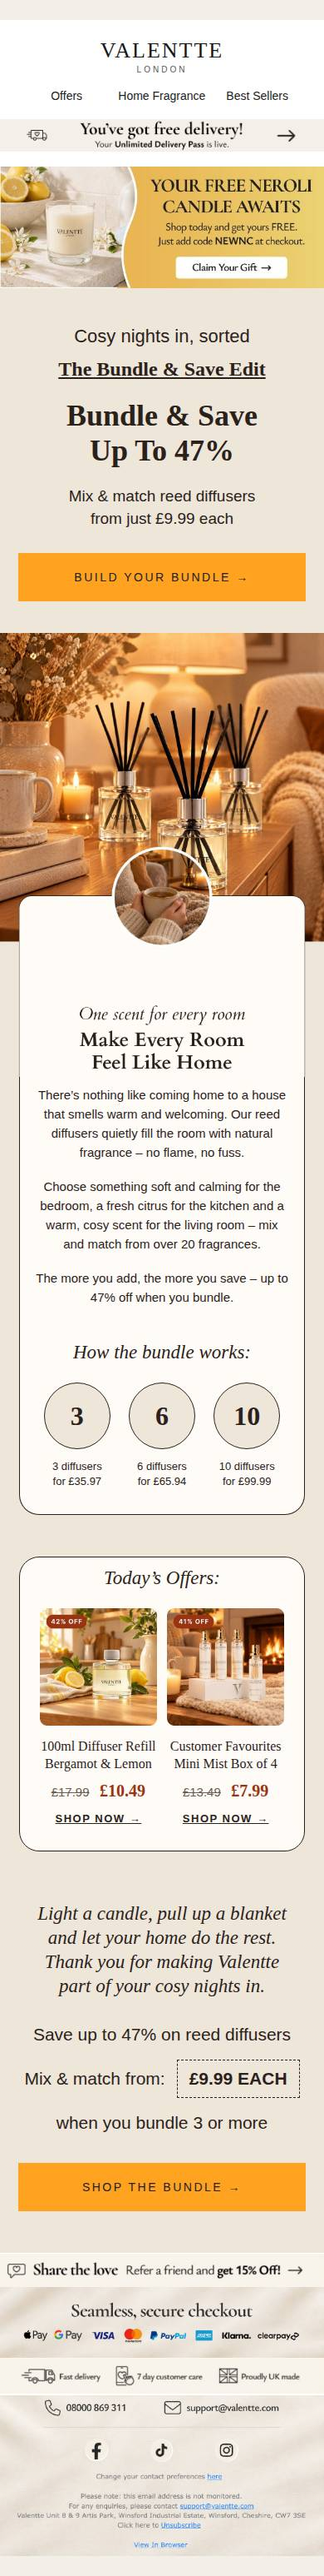
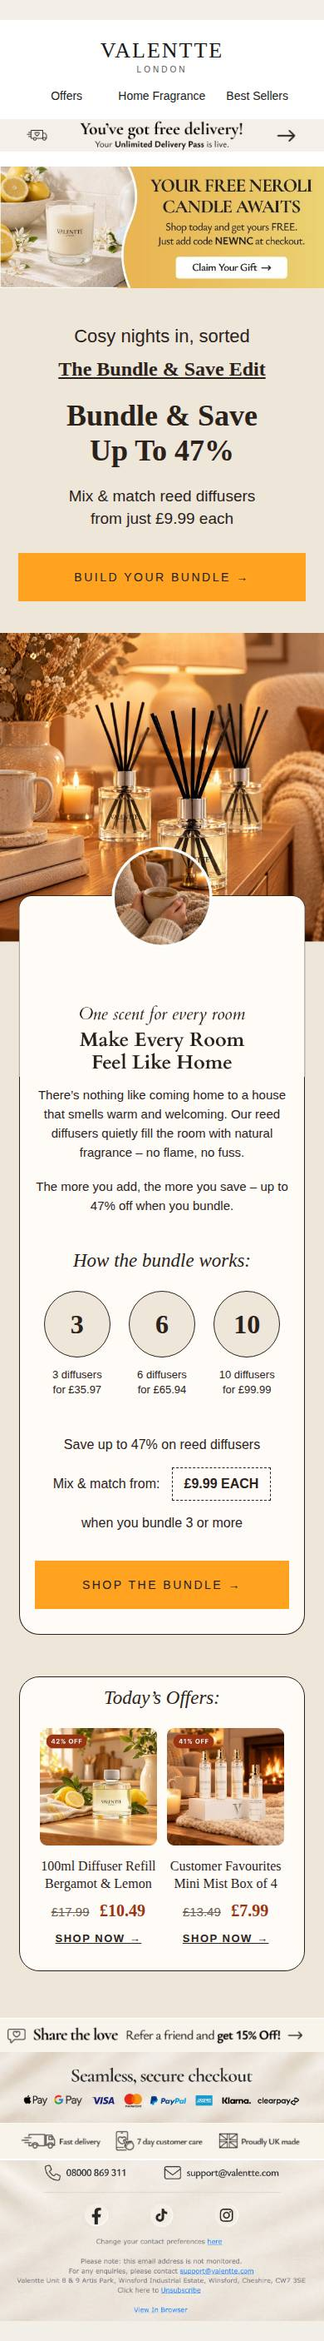
Thu 15/10 PM: bundle offer under 'How the bundle works', sync Ruby's Figma edits
Removed paragraph 2 and the sign-off (deleted in Figma); bundle offer + Shop the
bundle button now sit inside the story card above Today's Offers.

Claude-Session: https://claude.ai/code/session_01TpUJ2cy35Kours3zuWLZDp

diff --git a/emails/thu-15-10-pm/pm-15-10-new-customers.html b/emails/thu-15-10-pm/pm-15-10-new-customers.html
@@ -45,6 +45,7 @@
     .lb-pname { font-size:16px !important; line-height:21px !important; }
     .lb-now { font-size:20px !important; }
     .lb-it { font-size:23px !important; line-height:29px !important; }
+    .lb-off { font-size:16px !important; line-height:22px !important; }
     .lb-btn a { font-size:14px !important; padding:18px 10px !important; }
   }
 </style>
@@ -100,12 +101,18 @@
       <table role="presentation" width="100%" cellpadding="0" cellspacing="0" border="0" bgcolor="#fffcf8" style="background:#fffcf8;border-left:1px solid #2b211b;border-right:1px solid #2b211b;border-bottom:1px solid #2b211b;border-radius:0 0 24px 24px;"><tbody><tr>
         <td align="center" class="lb-card" style="padding:15px 38px 44px;">
           <div class="lb-p" style="font-family:Inter,Arial,Helvetica,sans-serif;font-size:17px;line-height:25px;color:#2b211b;padding:0 0 18px;">There’s nothing like coming home to a house that smells warm and welcoming. Our reed diffusers quietly fill the room with natural fragrance – no flame, no fuss.</div>
-          <div class="lb-p" style="font-family:Inter,Arial,Helvetica,sans-serif;font-size:17px;line-height:25px;color:#2b211b;padding:0 0 18px;">Choose something soft and calming for the bedroom, a fresh citrus for the kitchen and a warm, cosy scent for the living room – mix and match from over 20 fragrances.</div>
           <div class="lb-p" style="font-family:Inter,Arial,Helvetica,sans-serif;font-size:17px;line-height:25px;color:#2b211b;padding:0;">The more you add, the more you save – up to 47% off when you bundle.</div>
           <div class="lb-it" style="font-family:Cardo,Georgia,'Times New Roman',serif;font-style:italic;font-size:30px;line-height:36px;color:#2b211b;padding-top:40px;">How the bundle works:</div>
           <table role="presentation" width="100%" cellpadding="0" cellspacing="0" border="0" style="margin-top:22px;"><tbody><tr>
             <td width="33%" align="center" valign="top" style="width:33.333%;padding:0 4px;"><a href="https://valentte.com/reed-diffuser-bundle/?VNCFG=1" target="_blank" style="text-decoration:none;color:#2b211b;"><div class="lb-tier" style="width:110px;height:110px;line-height:110px;border:1px solid #2b211b;border-radius:55px;background:#efe6da;font-family:Cardo,Georgia,'Times New Roman',serif;font-weight:700;font-size:44px;color:#2b211b;text-align:center;margin:0 auto;">3</div><div class="lb-cap" style="font-family:Inter,Arial,Helvetica,sans-serif;font-size:16px;line-height:22px;color:#2b211b;padding-top:12px;">3 diffusers<br>for £35.97</div></a></td><td width="33%" align="center" valign="top" style="width:33.333%;padding:0 4px;"><a href="https://valentte.com/reed-diffuser-bundle/?VNCFG=1" target="_blank" style="text-decoration:none;color:#2b211b;"><div class="lb-tier" style="width:110px;height:110px;line-height:110px;border:1px solid #2b211b;border-radius:55px;background:#efe6da;font-family:Cardo,Georgia,'Times New Roman',serif;font-weight:700;font-size:44px;color:#2b211b;text-align:center;margin:0 auto;">6</div><div class="lb-cap" style="font-family:Inter,Arial,Helvetica,sans-serif;font-size:16px;line-height:22px;color:#2b211b;padding-top:12px;">6 diffusers<br>for £65.94</div></a></td><td width="33%" align="center" valign="top" style="width:33.333%;padding:0 4px;"><a href="https://valentte.com/reed-diffuser-bundle/?VNCFG=1" target="_blank" style="text-decoration:none;color:#2b211b;"><div class="lb-tier" style="width:110px;height:110px;line-height:110px;border:1px solid #2b211b;border-radius:55px;background:#efe6da;font-family:Cardo,Georgia,'Times New Roman',serif;font-weight:700;font-size:44px;color:#2b211b;text-align:center;margin:0 auto;">10</div><div class="lb-cap" style="font-family:Inter,Arial,Helvetica,sans-serif;font-size:16px;line-height:22px;color:#2b211b;padding-top:12px;">10 diffusers<br>for £99.99</div></a></td>
           </tr></tbody></table>
+          <div class="lb-off" style="font-family:Inter,Arial,Helvetica,sans-serif;font-size:21px;line-height:28px;color:#2b211b;padding-top:46px;">Save up to 47% on reed diffusers</div>
+      <table role="presentation" cellpadding="0" cellspacing="0" border="0" align="center" style="margin:16px auto 0;"><tbody><tr>
+        <td class="lb-off" style="font-family:Inter,Arial,Helvetica,sans-serif;font-size:21px;line-height:28px;color:#2b211b;padding-right:14px;">Mix &amp; match from:</td>
+        <td class="lb-off" style="border:1px dashed #2b211b;padding:8px 14px;font-family:Inter,Arial,Helvetica,sans-serif;font-weight:700;font-size:21px;line-height:28px;color:#2b211b;white-space:nowrap;">£9.99 EACH</td>
+      </tr></tbody></table>
+      <div class="lb-off" style="font-family:Inter,Arial,Helvetica,sans-serif;font-size:21px;line-height:28px;color:#2b211b;padding-top:16px;">when you bundle 3 or more</div>
+      <div style="padding-top:34px;"><table role="presentation" width="380" cellpadding="0" cellspacing="0" border="0" align="center" class="btn-wide lb-btn" style="width:380px;max-width:100%;margin:0 auto;"><tbody><tr><td align="center" bgcolor="#ffa220" style="background:#ffa220;"><a href="https://valentte.com/reed-diffuser-bundle/?VNCFG=1" target="_blank" style="display:block;padding:22px 10px;font-family:Inter,Arial,Helvetica,sans-serif;font-weight:500;font-size:17px;line-height:22px;letter-spacing:2.5px;color:#212121;text-decoration:none;">SHOP THE BUNDLE →</a></td></tr></tbody></table></div>
         </td></tr></tbody></table>
     </td>
   </tr>
@@ -124,19 +131,7 @@
     </td>
   </tr>
 
-  <!-- SIGN-OFF + BUNDLE OFFER -->
-  <tr>
-    <td align="center" bgcolor="#efe6da" class="lb-pad" style="background:#efe6da;padding:60px 40px 50px;">
-      <div class="lb-it" style="font-family:Cardo,Georgia,'Times New Roman',serif;font-style:italic;font-size:28px;line-height:34px;color:#2b211b;">Light a candle, pull up a blanket<br>and let your home do the rest.<br>Thank you for making Valentte<br>part of your cosy nights in.</div>
-      <div style="font-family:Inter,Arial,Helvetica,sans-serif;font-size:21px;line-height:28px;color:#2b211b;padding-top:30px;">Save up to 47% on reed diffusers</div>
-      <table role="presentation" cellpadding="0" cellspacing="0" border="0" align="center" style="margin:16px auto 0;"><tbody><tr>
-        <td style="font-family:Inter,Arial,Helvetica,sans-serif;font-size:21px;line-height:28px;color:#2b211b;padding-right:14px;">Mix &amp; match from:</td>
-        <td style="border:1px dashed #2b211b;padding:8px 14px;font-family:Inter,Arial,Helvetica,sans-serif;font-weight:700;font-size:21px;line-height:28px;color:#2b211b;white-space:nowrap;">£9.99 EACH</td>
-      </tr></tbody></table>
-      <div style="font-family:Inter,Arial,Helvetica,sans-serif;font-size:21px;line-height:28px;color:#2b211b;padding-top:16px;">when you bundle 3 or more</div>
-      <div style="padding-top:34px;"><table role="presentation" width="380" cellpadding="0" cellspacing="0" border="0" align="center" class="btn-wide lb-btn" style="width:380px;max-width:100%;margin:0 auto;"><tbody><tr><td align="center" bgcolor="#ffa220" style="background:#ffa220;"><a href="https://valentte.com/reed-diffuser-bundle/?VNCFG=1" target="_blank" style="display:block;padding:22px 10px;font-family:Inter,Arial,Helvetica,sans-serif;font-weight:500;font-size:17px;line-height:22px;letter-spacing:2.5px;color:#212121;text-decoration:none;">SHOP THE BUNDLE →</a></td></tr></tbody></table></div>
-    </td>
-  </tr>
+  <tr><td bgcolor="#efe6da" style="background:#efe6da;font-size:0;line-height:0;height:56px;">&nbsp;</td></tr>
 
   <!-- FOOTER: Top5 #7 Higgsfield background (sliced, links live) -->
 <tr><td align="center" bgcolor="#f1ece4" style="background:#f1ece4;padding:0;font-size:0;line-height:0;"><table role="presentation" width="100%" cellpadding="0" cellspacing="0" border="0" style="width:100%;"><tr><td width="600" valign="top" style="width:100.0%;padding:0;font-size:0;line-height:0;"><a href="https://valentte.com/refer-a-friend/" target="_blank" style="display:block;text-decoration:none;"><img src="https://brxcdn.com/uk1-app-storage/2e25bbd8-55a8-11f0-9f79-9aae66778e25/media/original/760ecf9e-bdac-11f1-9bec-da72c3ede207" width="600" alt="Share the love - refer a friend and get 15% off" style="display:block;width:100%;max-width:600px;height:auto;border:0;"></a></td></tr></table><table role="presentation" width="100%" cellpadding="0" cellspacing="0" border="0" style="width:100%;"><tr><td width="600" valign="top" style="width:100.0%;padding:0;font-size:0;line-height:0;"><a href="https://valentte.com/cart/?VNCFG=1" target="_blank" style="display:block;text-decoration:none;"><img src="https://brxcdn.com/uk1-app-storage/2e25bbd8-55a8-11f0-9f79-9aae66778e25/media/original/9be8f870-bdac-11f1-ae3e-3a61f529e63a" width="600" alt="Seamless, secure checkout. We accept Apple Pay, Google Pay, Visa, Mastercard, PayPal, Amex, Klarna and Clearpay. Fast delivery, 7 day customer care, proudly UK made." style="display:block;width:100%;max-width:600px;height:auto;border:0;"></a></td></tr></table><table role="presentation" width="100%" cellpadding="0" cellspacing="0" border="0" style="width:100%;"><tr><td width="270" valign="top" style="width:45.0%;padding:0;font-size:0;line-height:0;"><a href="tel:08000869311" target="_blank" style="display:block;text-decoration:none;"><img src="https://brxcdn.com/uk1-app-storage/2e25bbd8-55a8-11f0-9f79-9aae66778e25/media/original/72909d34-bdac-11f1-9503-6e106daa45cc" width="270" alt="Call 08000 869 311" style="display:block;width:100%;max-width:270px;height:auto;border:0;"></a></td><td width="330" valign="top" style="width:55.0%;padding:0;font-size:0;line-height:0;"><a href="mailto:support@valentte.com" target="_blank" style="display:block;text-decoration:none;"><img src="https://brxcdn.com/uk1-app-storage/2e25bbd8-55a8-11f0-9f79-9aae66778e25/media/original/5d27c198-bdac-11f1-9016-6a3143bb27f1" width="330" alt="Email support@valentte.com" style="display:block;width:100%;max-width:330px;height:auto;border:0;"></a></td></tr></table><table role="presentation" width="100%" cellpadding="0" cellspacing="0" border="0" style="width:100%;"><tr><td width="118" valign="top" style="width:19.667%;padding:0;font-size:0;line-height:0;"><img src="https://brxcdn.com/uk1-app-storage/2e25bbd8-55a8-11f0-9f79-9aae66778e25/media/original/8e2412a6-bdac-11f1-9dc7-e2485d303308" width="118" alt="" style="display:block;width:100%;max-width:118px;height:auto;border:0;"></td><td width="120" valign="top" style="width:20.0%;padding:0;font-size:0;line-height:0;"><a href="https://www.facebook.com/ValentteLondon" target="_blank" style="display:block;text-decoration:none;"><img src="https://brxcdn.com/uk1-app-storage/2e25bbd8-55a8-11f0-9f79-9aae66778e25/media/original/4ef0a180-bdac-11f1-9bec-da72c3ede207" width="120" alt="Facebook" style="display:block;width:100%;max-width:120px;height:auto;border:0;"></a></td><td width="121" valign="top" style="width:20.167%;padding:0;font-size:0;line-height:0;"><a href="https://www.tiktok.com/@valentte_london" target="_blank" style="display:block;text-decoration:none;"><img src="https://brxcdn.com/uk1-app-storage/2e25bbd8-55a8-11f0-9f79-9aae66778e25/media/original/6ec5e3a8-bdac-11f1-b194-e2485d303308" width="121" alt="TikTok" style="display:block;width:100%;max-width:121px;height:auto;border:0;"></a></td><td width="120" valign="top" style="width:20.0%;padding:0;font-size:0;line-height:0;"><a href="https://www.instagram.com/valentte_london" target="_blank" style="display:block;text-decoration:none;"><img src="https://brxcdn.com/uk1-app-storage/2e25bbd8-55a8-11f0-9f79-9aae66778e25/media/original/86d08fc0-bdac-11f1-8337-6e106daa45cc" width="120" alt="Instagram" style="display:block;width:100%;max-width:120px;height:auto;border:0;"></a></td><td width="121" valign="top" style="width:20.167%;padding:0;font-size:0;line-height:0;"><img src="https://brxcdn.com/uk1-app-storage/2e25bbd8-55a8-11f0-9f79-9aae66778e25/media/original/9fb55dc2-bdac-11f1-a522-da72c3ede207" width="121" alt="" style="display:block;width:100%;max-width:121px;height:auto;border:0;"></td></tr></table><table role="presentation" width="100%" cellpadding="0" cellspacing="0" border="0" style="width:100%;"><tr><td width="383" valign="top" style="width:63.833%;padding:0;font-size:0;line-height:0;"><a href="{{ email.unsubscribe }}" target="_blank" style="display:block;text-decoration:none;"><img src="https://brxcdn.com/uk1-app-storage/2e25bbd8-55a8-11f0-9f79-9aae66778e25/media/original/833168a8-bdac-11f1-aac9-e2485d303308" width="383" alt="Change your contact preferences" style="display:block;width:100%;max-width:383px;height:auto;border:0;"></a></td><td width="29" valign="top" style="width:4.833%;padding:0;font-size:0;line-height:0;"><a href="{{ email.unsubscribe }}" target="_blank" style="display:block;text-decoration:none;"><img src="https://brxcdn.com/uk1-app-storage/2e25bbd8-55a8-11f0-9f79-9aae66778e25/media/original/91e44a82-bdac-11f1-ad1e-da72c3ede207" width="29" alt="here" style="display:block;width:100%;max-width:29px;height:auto;border:0;"></a></td><td width="188" valign="top" style="width:31.333%;padding:0;font-size:0;line-height:0;"><a href="{{ email.unsubscribe }}" target="_blank" style="display:block;text-decoration:none;"><img src="https://brxcdn.com/uk1-app-storage/2e25bbd8-55a8-11f0-9f79-9aae66778e25/media/original/95978c2a-bdac-11f1-ad4c-6a3143bb27f1" width="188" alt="" style="display:block;width:100%;max-width:188px;height:auto;border:0;"></a></td></tr></table><table role="presentation" width="100%" cellpadding="0" cellspacing="0" border="0" style="width:100%;"><tr><td width="600" valign="top" style="width:100.0%;padding:0;font-size:0;line-height:0;"><img src="https://brxcdn.com/uk1-app-storage/2e25bbd8-55a8-11f0-9f79-9aae66778e25/media/original/7dde79d6-bdac-11f1-9dc7-e2485d303308" width="600" alt="Please note: this email address is not monitored." style="display:block;width:100%;max-width:600px;height:auto;border:0;"></td></tr></table><table role="presentation" width="100%" cellpadding="0" cellspacing="0" border="0" style="width:100%;"><tr><td width="332" valign="top" style="width:55.333%;padding:0;font-size:0;line-height:0;"><img src="https://brxcdn.com/uk1-app-storage/2e25bbd8-55a8-11f0-9f79-9aae66778e25/media/original/7a2d97e0-bdac-11f1-ad4c-6a3143bb27f1" width="332" alt="For any enquiries, please contact" style="display:block;width:100%;max-width:332px;height:auto;border:0;"></td><td width="139" valign="top" style="width:23.167%;padding:0;font-size:0;line-height:0;"><a href="mailto:support@valentte.com" target="_blank" style="display:block;text-decoration:none;"><img src="https://brxcdn.com/uk1-app-storage/2e25bbd8-55a8-11f0-9f79-9aae66778e25/media/original/8a562fd8-bdac-11f1-9bec-da72c3ede207" width="139" alt="support@valentte.com" style="display:block;width:100%;max-width:139px;height:auto;border:0;"></a></td><td width="129" valign="top" style="width:21.5%;padding:0;font-size:0;line-height:0;"><img src="https://brxcdn.com/uk1-app-storage/2e25bbd8-55a8-11f0-9f79-9aae66778e25/media/original/5946373a-bdac-11f1-bbf4-3a61f529e63a" width="129" alt="" style="display:block;width:100%;max-width:129px;height:auto;border:0;"></td></tr></table><table role="presentation" width="100%" cellpadding="0" cellspacing="0" border="0" style="width:100%;"><tr><td width="600" valign="top" style="width:100.0%;padding:0;font-size:0;line-height:0;"><img src="https://brxcdn.com/uk1-app-storage/2e25bbd8-55a8-11f0-9f79-9aae66778e25/media/original/a8900f0a-bdac-11f1-a522-da72c3ede207" width="600" alt="Valentte Unit 8 &amp; 9 Artis Park, Winsford Industrial Estate, Winsford, Cheshire, CW7 3SE" style="display:block;width:100%;max-width:600px;height:auto;border:0;"></td></tr></table><table role="presentation" width="100%" cellpadding="0" cellspacing="0" border="0" style="width:100%;"><tr><td width="297" valign="top" style="width:49.5%;padding:0;font-size:0;line-height:0;"><img src="https://brxcdn.com/uk1-app-storage/2e25bbd8-55a8-11f0-9f79-9aae66778e25/media/original/543573d2-bdac-11f1-bbf4-3a61f529e63a" width="297" alt="Click here to" style="display:block;width:100%;max-width:297px;height:auto;border:0;"></td><td width="76" valign="top" style="width:12.667%;padding:0;font-size:0;line-height:0;"><a href="{{ email.unsubscribe }}" target="_blank" style="display:block;text-decoration:none;"><img src="https://brxcdn.com/uk1-app-storage/2e25bbd8-55a8-11f0-9f79-9aae66778e25/media/original/4517097e-bdac-11f1-9bec-da72c3ede207" width="76" alt="Unsubscribe" style="display:block;width:100%;max-width:76px;height:auto;border:0;"></a></td><td width="227" valign="top" style="width:37.833%;padding:0;font-size:0;line-height:0;"><img src="https://brxcdn.com/uk1-app-storage/2e25bbd8-55a8-11f0-9f79-9aae66778e25/media/original/67e0349e-bdac-11f1-82b3-6a3143bb27f1" width="227" alt="" style="display:block;width:100%;max-width:227px;height:auto;border:0;"></td></tr></table><table role="presentation" width="100%" cellpadding="0" cellspacing="0" border="0" style="width:100%;"><tr><td width="247" valign="top" style="width:41.167%;padding:0;font-size:0;line-height:0;"><img src="https://brxcdn.com/uk1-app-storage/2e25bbd8-55a8-11f0-9f79-9aae66778e25/media/original/60c1b822-bdac-11f1-b585-3a61f529e63a" width="247" alt="" style="display:block;width:100%;max-width:247px;height:auto;border:0;"></td><td width="100" valign="top" style="width:16.667%;padding:0;font-size:0;line-height:0;"><a href="{{ email.view }}" target="_blank" style="display:block;text-decoration:none;"><img src="https://brxcdn.com/uk1-app-storage/2e25bbd8-55a8-11f0-9f79-9aae66778e25/media/original/6449db5a-bdac-11f1-ad1e-da72c3ede207" width="100" alt="View In Browser" style="display:block;width:100%;max-width:100px;height:auto;border:0;"></a></td><td width="253" valign="top" style="width:42.167%;padding:0;font-size:0;line-height:0;"><img src="https://brxcdn.com/uk1-app-storage/2e25bbd8-55a8-11f0-9f79-9aae66778e25/media/original/4b054530-bdac-11f1-9503-6e106daa45cc" width="253" alt="" style="display:block;width:100%;max-width:253px;height:auto;border:0;"></td></tr></table></td></tr>

diff --git a/emails/thu-15-10-pm/pm-15-10-existing-customers.html b/emails/thu-15-10-pm/pm-15-10-existing-customers.html
@@ -45,6 +45,7 @@
     .lb-pname { font-size:16px !important; line-height:21px !important; }
     .lb-now { font-size:20px !important; }
     .lb-it { font-size:23px !important; line-height:29px !important; }
+    .lb-off { font-size:16px !important; line-height:22px !important; }
     .lb-btn a { font-size:14px !important; padding:18px 10px !important; }
   }
 </style>
@@ -100,12 +101,18 @@
       <table role="presentation" width="100%" cellpadding="0" cellspacing="0" border="0" bgcolor="#fffcf8" style="background:#fffcf8;border-left:1px solid #2b211b;border-right:1px solid #2b211b;border-bottom:1px solid #2b211b;border-radius:0 0 24px 24px;"><tbody><tr>
         <td align="center" class="lb-card" style="padding:15px 38px 44px;">
           <div class="lb-p" style="font-family:Inter,Arial,Helvetica,sans-serif;font-size:17px;line-height:25px;color:#2b211b;padding:0 0 18px;">There’s nothing like coming home to a house that smells warm and welcoming. Our reed diffusers quietly fill the room with natural fragrance – no flame, no fuss.</div>
-          <div class="lb-p" style="font-family:Inter,Arial,Helvetica,sans-serif;font-size:17px;line-height:25px;color:#2b211b;padding:0 0 18px;">Choose something soft and calming for the bedroom, a fresh citrus for the kitchen and a warm, cosy scent for the living room – mix and match from over 20 fragrances.</div>
           <div class="lb-p" style="font-family:Inter,Arial,Helvetica,sans-serif;font-size:17px;line-height:25px;color:#2b211b;padding:0;">The more you add, the more you save – up to 47% off when you bundle.</div>
           <div class="lb-it" style="font-family:Cardo,Georgia,'Times New Roman',serif;font-style:italic;font-size:30px;line-height:36px;color:#2b211b;padding-top:40px;">How the bundle works:</div>
           <table role="presentation" width="100%" cellpadding="0" cellspacing="0" border="0" style="margin-top:22px;"><tbody><tr>
             <td width="33%" align="center" valign="top" style="width:33.333%;padding:0 4px;"><a href="https://valentte.com/reed-diffuser-bundle/" target="_blank" style="text-decoration:none;color:#2b211b;"><div class="lb-tier" style="width:110px;height:110px;line-height:110px;border:1px solid #2b211b;border-radius:55px;background:#efe6da;font-family:Cardo,Georgia,'Times New Roman',serif;font-weight:700;font-size:44px;color:#2b211b;text-align:center;margin:0 auto;">3</div><div class="lb-cap" style="font-family:Inter,Arial,Helvetica,sans-serif;font-size:16px;line-height:22px;color:#2b211b;padding-top:12px;">3 diffusers<br>for £35.97</div></a></td><td width="33%" align="center" valign="top" style="width:33.333%;padding:0 4px;"><a href="https://valentte.com/reed-diffuser-bundle/" target="_blank" style="text-decoration:none;color:#2b211b;"><div class="lb-tier" style="width:110px;height:110px;line-height:110px;border:1px solid #2b211b;border-radius:55px;background:#efe6da;font-family:Cardo,Georgia,'Times New Roman',serif;font-weight:700;font-size:44px;color:#2b211b;text-align:center;margin:0 auto;">6</div><div class="lb-cap" style="font-family:Inter,Arial,Helvetica,sans-serif;font-size:16px;line-height:22px;color:#2b211b;padding-top:12px;">6 diffusers<br>for £65.94</div></a></td><td width="33%" align="center" valign="top" style="width:33.333%;padding:0 4px;"><a href="https://valentte.com/reed-diffuser-bundle/" target="_blank" style="text-decoration:none;color:#2b211b;"><div class="lb-tier" style="width:110px;height:110px;line-height:110px;border:1px solid #2b211b;border-radius:55px;background:#efe6da;font-family:Cardo,Georgia,'Times New Roman',serif;font-weight:700;font-size:44px;color:#2b211b;text-align:center;margin:0 auto;">10</div><div class="lb-cap" style="font-family:Inter,Arial,Helvetica,sans-serif;font-size:16px;line-height:22px;color:#2b211b;padding-top:12px;">10 diffusers<br>for £99.99</div></a></td>
           </tr></tbody></table>
+          <div class="lb-off" style="font-family:Inter,Arial,Helvetica,sans-serif;font-size:21px;line-height:28px;color:#2b211b;padding-top:46px;">Save up to 47% on reed diffusers</div>
+      <table role="presentation" cellpadding="0" cellspacing="0" border="0" align="center" style="margin:16px auto 0;"><tbody><tr>
+        <td class="lb-off" style="font-family:Inter,Arial,Helvetica,sans-serif;font-size:21px;line-height:28px;color:#2b211b;padding-right:14px;">Mix &amp; match from:</td>
+        <td class="lb-off" style="border:1px dashed #2b211b;padding:8px 14px;font-family:Inter,Arial,Helvetica,sans-serif;font-weight:700;font-size:21px;line-height:28px;color:#2b211b;white-space:nowrap;">£9.99 EACH</td>
+      </tr></tbody></table>
+      <div class="lb-off" style="font-family:Inter,Arial,Helvetica,sans-serif;font-size:21px;line-height:28px;color:#2b211b;padding-top:16px;">when you bundle 3 or more</div>
+      <div style="padding-top:34px;"><table role="presentation" width="380" cellpadding="0" cellspacing="0" border="0" align="center" class="btn-wide lb-btn" style="width:380px;max-width:100%;margin:0 auto;"><tbody><tr><td align="center" bgcolor="#ffa220" style="background:#ffa220;"><a href="https://valentte.com/reed-diffuser-bundle/" target="_blank" style="display:block;padding:22px 10px;font-family:Inter,Arial,Helvetica,sans-serif;font-weight:500;font-size:17px;line-height:22px;letter-spacing:2.5px;color:#212121;text-decoration:none;">SHOP THE BUNDLE →</a></td></tr></tbody></table></div>
         </td></tr></tbody></table>
     </td>
   </tr>
@@ -124,19 +131,7 @@
     </td>
   </tr>
 
-  <!-- SIGN-OFF + BUNDLE OFFER -->
-  <tr>
-    <td align="center" bgcolor="#efe6da" class="lb-pad" style="background:#efe6da;padding:60px 40px 50px;">
-      <div class="lb-it" style="font-family:Cardo,Georgia,'Times New Roman',serif;font-style:italic;font-size:28px;line-height:34px;color:#2b211b;">Light a candle, pull up a blanket<br>and let your home do the rest.<br>Thank you for making Valentte<br>part of your cosy nights in.</div>
-      <div style="font-family:Inter,Arial,Helvetica,sans-serif;font-size:21px;line-height:28px;color:#2b211b;padding-top:30px;">Save up to 47% on reed diffusers</div>
-      <table role="presentation" cellpadding="0" cellspacing="0" border="0" align="center" style="margin:16px auto 0;"><tbody><tr>
-        <td style="font-family:Inter,Arial,Helvetica,sans-serif;font-size:21px;line-height:28px;color:#2b211b;padding-right:14px;">Mix &amp; match from:</td>
-        <td style="border:1px dashed #2b211b;padding:8px 14px;font-family:Inter,Arial,Helvetica,sans-serif;font-weight:700;font-size:21px;line-height:28px;color:#2b211b;white-space:nowrap;">£9.99 EACH</td>
-      </tr></tbody></table>
-      <div style="font-family:Inter,Arial,Helvetica,sans-serif;font-size:21px;line-height:28px;color:#2b211b;padding-top:16px;">when you bundle 3 or more</div>
-      <div style="padding-top:34px;"><table role="presentation" width="380" cellpadding="0" cellspacing="0" border="0" align="center" class="btn-wide lb-btn" style="width:380px;max-width:100%;margin:0 auto;"><tbody><tr><td align="center" bgcolor="#ffa220" style="background:#ffa220;"><a href="https://valentte.com/reed-diffuser-bundle/" target="_blank" style="display:block;padding:22px 10px;font-family:Inter,Arial,Helvetica,sans-serif;font-weight:500;font-size:17px;line-height:22px;letter-spacing:2.5px;color:#212121;text-decoration:none;">SHOP THE BUNDLE →</a></td></tr></tbody></table></div>
-    </td>
-  </tr>
+  <tr><td bgcolor="#efe6da" style="background:#efe6da;font-size:0;line-height:0;height:56px;">&nbsp;</td></tr>
 
   <!-- FOOTER: Top5 #7 Higgsfield background (sliced, links live) -->
 <tr><td align="center" bgcolor="#f1ece4" style="background:#f1ece4;padding:0;font-size:0;line-height:0;"><table role="presentation" width="100%" cellpadding="0" cellspacing="0" border="0" style="width:100%;"><tr><td width="600" valign="top" style="width:100.0%;padding:0;font-size:0;line-height:0;"><a href="https://valentte.com/refer-a-friend/" target="_blank" style="display:block;text-decoration:none;"><img src="https://brxcdn.com/uk1-app-storage/2e25bbd8-55a8-11f0-9f79-9aae66778e25/media/original/760ecf9e-bdac-11f1-9bec-da72c3ede207" width="600" alt="Share the love - refer a friend and get 15% off" style="display:block;width:100%;max-width:600px;height:auto;border:0;"></a></td></tr></table><table role="presentation" width="100%" cellpadding="0" cellspacing="0" border="0" style="width:100%;"><tr><td width="600" valign="top" style="width:100.0%;padding:0;font-size:0;line-height:0;"><a href="https://valentte.com/cart/" target="_blank" style="display:block;text-decoration:none;"><img src="https://brxcdn.com/uk1-app-storage/2e25bbd8-55a8-11f0-9f79-9aae66778e25/media/original/9be8f870-bdac-11f1-ae3e-3a61f529e63a" width="600" alt="Seamless, secure checkout. We accept Apple Pay, Google Pay, Visa, Mastercard, PayPal, Amex, Klarna and Clearpay. Fast delivery, 7 day customer care, proudly UK made." style="display:block;width:100%;max-width:600px;height:auto;border:0;"></a></td></tr></table><table role="presentation" width="100%" cellpadding="0" cellspacing="0" border="0" style="width:100%;"><tr><td width="270" valign="top" style="width:45.0%;padding:0;font-size:0;line-height:0;"><a href="tel:08000869311" target="_blank" style="display:block;text-decoration:none;"><img src="https://brxcdn.com/uk1-app-storage/2e25bbd8-55a8-11f0-9f79-9aae66778e25/media/original/72909d34-bdac-11f1-9503-6e106daa45cc" width="270" alt="Call 08000 869 311" style="display:block;width:100%;max-width:270px;height:auto;border:0;"></a></td><td width="330" valign="top" style="width:55.0%;padding:0;font-size:0;line-height:0;"><a href="mailto:support@valentte.com" target="_blank" style="display:block;text-decoration:none;"><img src="https://brxcdn.com/uk1-app-storage/2e25bbd8-55a8-11f0-9f79-9aae66778e25/media/original/5d27c198-bdac-11f1-9016-6a3143bb27f1" width="330" alt="Email support@valentte.com" style="display:block;width:100%;max-width:330px;height:auto;border:0;"></a></td></tr></table><table role="presentation" width="100%" cellpadding="0" cellspacing="0" border="0" style="width:100%;"><tr><td width="118" valign="top" style="width:19.667%;padding:0;font-size:0;line-height:0;"><img src="https://brxcdn.com/uk1-app-storage/2e25bbd8-55a8-11f0-9f79-9aae66778e25/media/original/8e2412a6-bdac-11f1-9dc7-e2485d303308" width="118" alt="" style="display:block;width:100%;max-width:118px;height:auto;border:0;"></td><td width="120" valign="top" style="width:20.0%;padding:0;font-size:0;line-height:0;"><a href="https://www.facebook.com/ValentteLondon" target="_blank" style="display:block;text-decoration:none;"><img src="https://brxcdn.com/uk1-app-storage/2e25bbd8-55a8-11f0-9f79-9aae66778e25/media/original/4ef0a180-bdac-11f1-9bec-da72c3ede207" width="120" alt="Facebook" style="display:block;width:100%;max-width:120px;height:auto;border:0;"></a></td><td width="121" valign="top" style="width:20.167%;padding:0;font-size:0;line-height:0;"><a href="https://www.tiktok.com/@valentte_london" target="_blank" style="display:block;text-decoration:none;"><img src="https://brxcdn.com/uk1-app-storage/2e25bbd8-55a8-11f0-9f79-9aae66778e25/media/original/6ec5e3a8-bdac-11f1-b194-e2485d303308" width="121" alt="TikTok" style="display:block;width:100%;max-width:121px;height:auto;border:0;"></a></td><td width="120" valign="top" style="width:20.0%;padding:0;font-size:0;line-height:0;"><a href="https://www.instagram.com/valentte_london" target="_blank" style="display:block;text-decoration:none;"><img src="https://brxcdn.com/uk1-app-storage/2e25bbd8-55a8-11f0-9f79-9aae66778e25/media/original/86d08fc0-bdac-11f1-8337-6e106daa45cc" width="120" alt="Instagram" style="display:block;width:100%;max-width:120px;height:auto;border:0;"></a></td><td width="121" valign="top" style="width:20.167%;padding:0;font-size:0;line-height:0;"><img src="https://brxcdn.com/uk1-app-storage/2e25bbd8-55a8-11f0-9f79-9aae66778e25/media/original/9fb55dc2-bdac-11f1-a522-da72c3ede207" width="121" alt="" style="display:block;width:100%;max-width:121px;height:auto;border:0;"></td></tr></table><table role="presentation" width="100%" cellpadding="0" cellspacing="0" border="0" style="width:100%;"><tr><td width="383" valign="top" style="width:63.833%;padding:0;font-size:0;line-height:0;"><a href="{{ email.unsubscribe }}" target="_blank" style="display:block;text-decoration:none;"><img src="https://brxcdn.com/uk1-app-storage/2e25bbd8-55a8-11f0-9f79-9aae66778e25/media/original/833168a8-bdac-11f1-aac9-e2485d303308" width="383" alt="Change your contact preferences" style="display:block;width:100%;max-width:383px;height:auto;border:0;"></a></td><td width="29" valign="top" style="width:4.833%;padding:0;font-size:0;line-height:0;"><a href="{{ email.unsubscribe }}" target="_blank" style="display:block;text-decoration:none;"><img src="https://brxcdn.com/uk1-app-storage/2e25bbd8-55a8-11f0-9f79-9aae66778e25/media/original/91e44a82-bdac-11f1-ad1e-da72c3ede207" width="29" alt="here" style="display:block;width:100%;max-width:29px;height:auto;border:0;"></a></td><td width="188" valign="top" style="width:31.333%;padding:0;font-size:0;line-height:0;"><a href="{{ email.unsubscribe }}" target="_blank" style="display:block;text-decoration:none;"><img src="https://brxcdn.com/uk1-app-storage/2e25bbd8-55a8-11f0-9f79-9aae66778e25/media/original/95978c2a-bdac-11f1-ad4c-6a3143bb27f1" width="188" alt="" style="display:block;width:100%;max-width:188px;height:auto;border:0;"></a></td></tr></table><table role="presentation" width="100%" cellpadding="0" cellspacing="0" border="0" style="width:100%;"><tr><td width="600" valign="top" style="width:100.0%;padding:0;font-size:0;line-height:0;"><img src="https://brxcdn.com/uk1-app-storage/2e25bbd8-55a8-11f0-9f79-9aae66778e25/media/original/7dde79d6-bdac-11f1-9dc7-e2485d303308" width="600" alt="Please note: this email address is not monitored." style="display:block;width:100%;max-width:600px;height:auto;border:0;"></td></tr></table><table role="presentation" width="100%" cellpadding="0" cellspacing="0" border="0" style="width:100%;"><tr><td width="332" valign="top" style="width:55.333%;padding:0;font-size:0;line-height:0;"><img src="https://brxcdn.com/uk1-app-storage/2e25bbd8-55a8-11f0-9f79-9aae66778e25/media/original/7a2d97e0-bdac-11f1-ad4c-6a3143bb27f1" width="332" alt="For any enquiries, please contact" style="display:block;width:100%;max-width:332px;height:auto;border:0;"></td><td width="139" valign="top" style="width:23.167%;padding:0;font-size:0;line-height:0;"><a href="mailto:support@valentte.com" target="_blank" style="display:block;text-decoration:none;"><img src="https://brxcdn.com/uk1-app-storage/2e25bbd8-55a8-11f0-9f79-9aae66778e25/media/original/8a562fd8-bdac-11f1-9bec-da72c3ede207" width="139" alt="support@valentte.com" style="display:block;width:100%;max-width:139px;height:auto;border:0;"></a></td><td width="129" valign="top" style="width:21.5%;padding:0;font-size:0;line-height:0;"><img src="https://brxcdn.com/uk1-app-storage/2e25bbd8-55a8-11f0-9f79-9aae66778e25/media/original/5946373a-bdac-11f1-bbf4-3a61f529e63a" width="129" alt="" style="display:block;width:100%;max-width:129px;height:auto;border:0;"></td></tr></table><table role="presentation" width="100%" cellpadding="0" cellspacing="0" border="0" style="width:100%;"><tr><td width="600" valign="top" style="width:100.0%;padding:0;font-size:0;line-height:0;"><img src="https://brxcdn.com/uk1-app-storage/2e25bbd8-55a8-11f0-9f79-9aae66778e25/media/original/a8900f0a-bdac-11f1-a522-da72c3ede207" width="600" alt="Valentte Unit 8 &amp; 9 Artis Park, Winsford Industrial Estate, Winsford, Cheshire, CW7 3SE" style="display:block;width:100%;max-width:600px;height:auto;border:0;"></td></tr></table><table role="presentation" width="100%" cellpadding="0" cellspacing="0" border="0" style="width:100%;"><tr><td width="297" valign="top" style="width:49.5%;padding:0;font-size:0;line-height:0;"><img src="https://brxcdn.com/uk1-app-storage/2e25bbd8-55a8-11f0-9f79-9aae66778e25/media/original/543573d2-bdac-11f1-bbf4-3a61f529e63a" width="297" alt="Click here to" style="display:block;width:100%;max-width:297px;height:auto;border:0;"></td><td width="76" valign="top" style="width:12.667%;padding:0;font-size:0;line-height:0;"><a href="{{ email.unsubscribe }}" target="_blank" style="display:block;text-decoration:none;"><img src="https://brxcdn.com/uk1-app-storage/2e25bbd8-55a8-11f0-9f79-9aae66778e25/media/original/4517097e-bdac-11f1-9bec-da72c3ede207" width="76" alt="Unsubscribe" style="display:block;width:100%;max-width:76px;height:auto;border:0;"></a></td><td width="227" valign="top" style="width:37.833%;padding:0;font-size:0;line-height:0;"><img src="https://brxcdn.com/uk1-app-storage/2e25bbd8-55a8-11f0-9f79-9aae66778e25/media/original/67e0349e-bdac-11f1-82b3-6a3143bb27f1" width="227" alt="" style="display:block;width:100%;max-width:227px;height:auto;border:0;"></td></tr></table><table role="presentation" width="100%" cellpadding="0" cellspacing="0" border="0" style="width:100%;"><tr><td width="247" valign="top" style="width:41.167%;padding:0;font-size:0;line-height:0;"><img src="https://brxcdn.com/uk1-app-storage/2e25bbd8-55a8-11f0-9f79-9aae66778e25/media/original/60c1b822-bdac-11f1-b585-3a61f529e63a" width="247" alt="" style="display:block;width:100%;max-width:247px;height:auto;border:0;"></td><td width="100" valign="top" style="width:16.667%;padding:0;font-size:0;line-height:0;"><a href="{{ email.view }}" target="_blank" style="display:block;text-decoration:none;"><img src="https://brxcdn.com/uk1-app-storage/2e25bbd8-55a8-11f0-9f79-9aae66778e25/media/original/6449db5a-bdac-11f1-ad1e-da72c3ede207" width="100" alt="View In Browser" style="display:block;width:100%;max-width:100px;height:auto;border:0;"></a></td><td width="253" valign="top" style="width:42.167%;padding:0;font-size:0;line-height:0;"><img src="https://brxcdn.com/uk1-app-storage/2e25bbd8-55a8-11f0-9f79-9aae66778e25/media/original/4b054530-bdac-11f1-9503-6e106daa45cc" width="253" alt="" style="display:block;width:100%;max-width:253px;height:auto;border:0;"></td></tr></table></td></tr>

diff --git a/emails/thu-15-10-pm/README.md b/emails/thu-15-10-pm/README.md
@@ -16,9 +16,8 @@ Editable frames: `21722:193` New Customers, `21722:279` Existing Customers (file
 2. FREE Gift banner – `NEWNC` Neroli candle in New Customers only; Spa-Candle "Today only FREE candle" in Existing Customers only
 3. Top band: "Bundle & Save Up To 47%" – mix & match reed diffusers from £9.99 each → bundle
 4. Hero (baked): Higgsfield restyle of the real Valentte reed diffuser (three bottles, cosy living room) + circle image + card heading
-5. Story card (live): one scent for every room; how the bundle works – 3 for £35.97 / 6 for £65.94 / 10 for £99.99
+5. Story card (live): one scent for every room; how the bundle works – 3 for £35.97 / 6 for £65.94 / 10 for £99.99; then "Save up to 47% · Mix & match from £9.99 each · when you bundle 3 or more" + Shop the bundle
 6. Today’s Offers card (separate, live): 100ml Diffuser Refill – Bergamot & Lemon £17.99 → £10.49 (42% off); Customer Favourites Mini Mist Box of 4 £13.49 → £7.99 (41% off)
-7. Sign-off + "Mix & match from £9.99 each" + Shop the bundle
-8. Zac footer
+7. Zac footer
 
 Prices from the Bloomreach catalogue (8 Oct 2026) – re-check before this sends. New Customers links carry `?VNCFG=1`.
